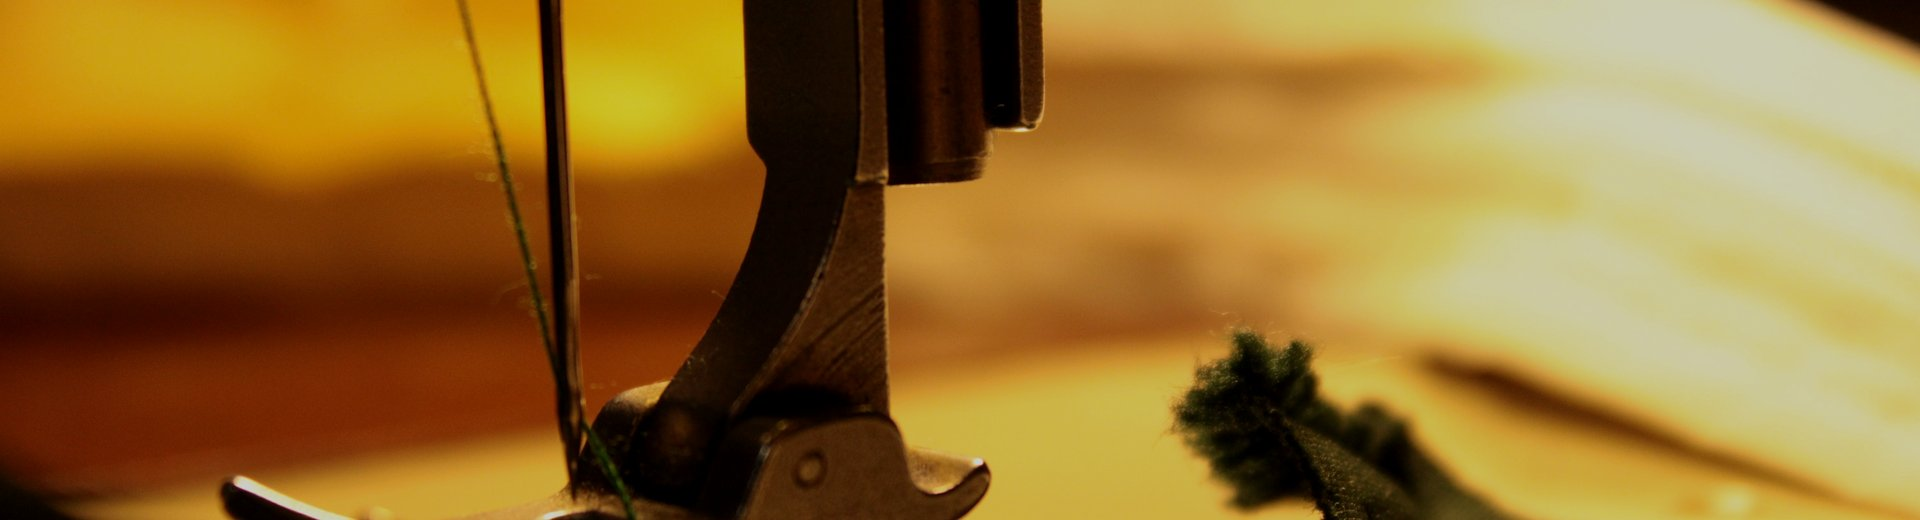
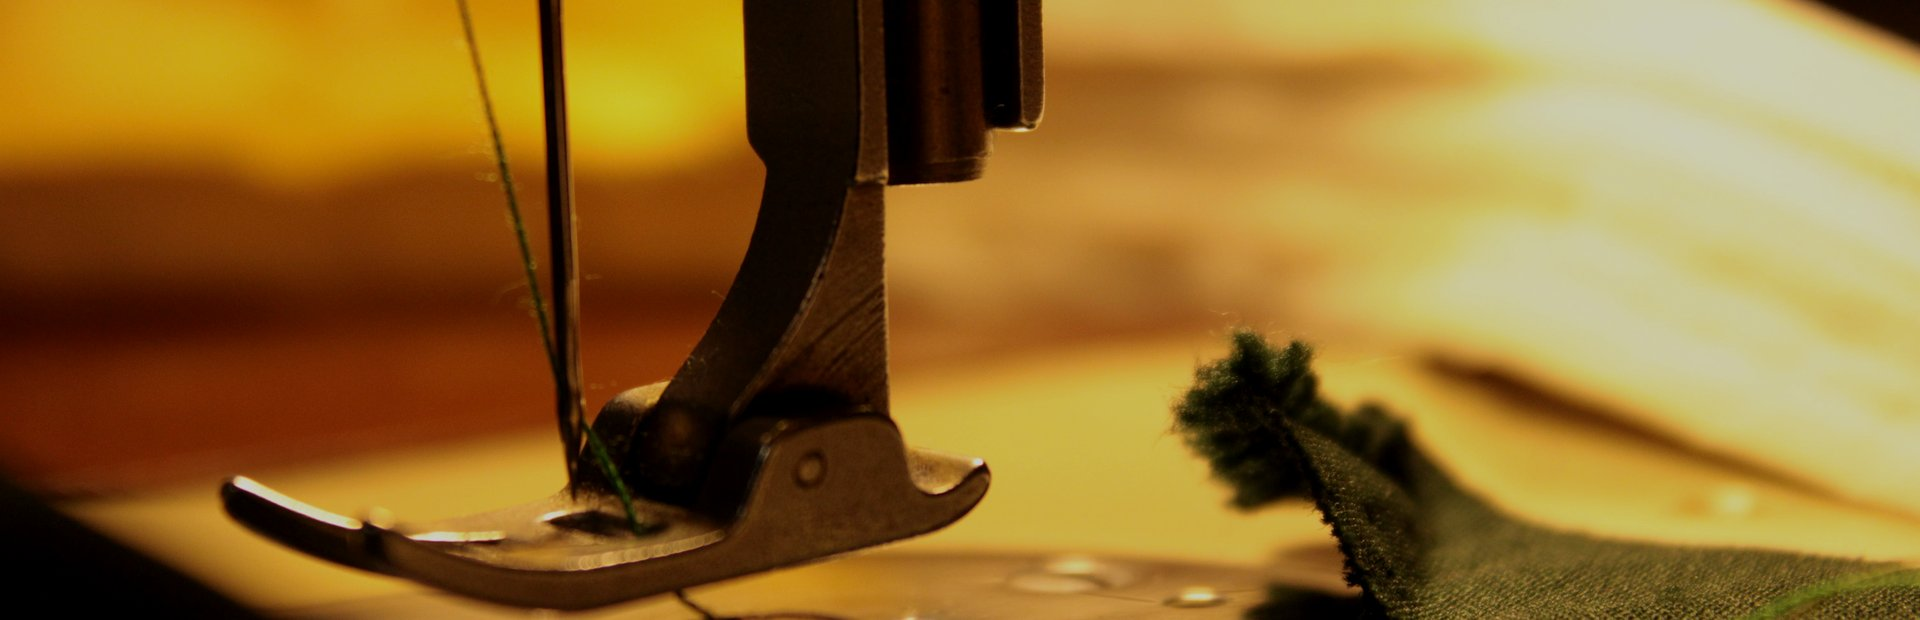
chore: hero文字垂直居中 + 增高到620px露机头针

diff --git a/get-price.html b/get-price.html
@@ -12,11 +12,18 @@
 
         /* Hero banner */
         .gp-hero {
-            background: url("images/hero-bg.jpg") center bottom / cover no-repeat; position: relative;
-            padding: 60px 40px 70px;
-            text-align: center;
+            background: url("images/hero-bg.jpg") center / cover no-repeat;
             position: relative;
+            /* fixed hero height so text block sits at true vertical center regardless of content */
+            height: 620px;
+            display: flex;
+            align-items: center;
+            justify-content: center;
+            text-align: center;
             overflow: hidden;
+        }
+        .gp-hero > * {
+            max-width: 820px;
         }
         .gp-hero::before {
             content: '';
